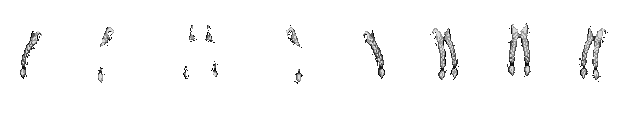
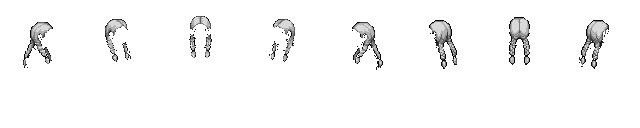
Twin braids with hair on top, and the day's dressing written down
The male twin braids were bought again with the whole scalp asked for; the
first take braided a bald head. CLAUDE.md now records that partners, the Hold,
the card and the lobby are dressed; that the dressed body has no cloak or sash
band; and that a death always ends on its last-but-one frame.

diff --git a/CLAUDE.md b/CLAUDE.md
@@ -10005,6 +10005,28 @@ the Walk, derived from `runs_started` and a plain look, never stored.
 `warden_glass_check` holds that an untouched glass writes nothing and that
 nothing but the look moves.
 
+**Everybody is dressed, not only the player.** A partner on the road is dressed
+from the look row and four worn gear kinds the wire now carries
+(`Request.HERO_GEAR`, by kind and never by piece, attributed by the peer it
+arrived on; a kind in the wrong slot or unknown to this build is nothing). The
+Hold's seats wear their looks - the simulated Wardens a body, hairstyle, colour,
+beard and skin rolled from the visit's salt, so the Hold is full of strangers -
+and the Hold's card and the co-op lobby stand a `WardenStage`, the same dressed
+Warden the glass turns. The painted Warden remains only as a fallback for a body
+whose art is not drawn.
+
+**The dressed body has no cloak or sash band.** Those two dyes turn the painted
+Warden's teal cloak and red sash; on the new linen body the sash band found the
+skin's reddish ink and speckled it cyan. `HeroAnimator.dress` tells the shader
+which Warden it draws (`painted_bands`), and a dressed body turns only its
+leather.
+
+**A death ends on its last-but-one frame, always.** The generator reads
+"collapse" as "fade": six of the sixteen last death frames across the two bases
+dissolved, three into a pale speckle no measure could tell from an ordinary
+frame, and the last two frames of a death are one pose. `pack.py` also clears
+detached dust of five pixels or fewer.
+
 ### The three escape hatches - and why there are only three
 
 The project is going all in on v4. That is the right call and it does not need
